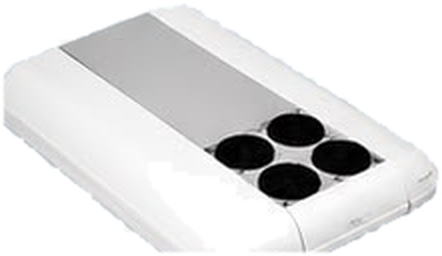
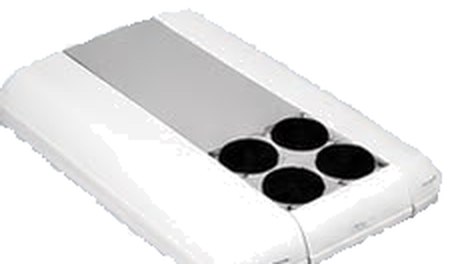
Imagenes en fondo blanco y datos de contacto reales

diff --git a/content/site.ts b/content/site.ts
@@ -14,7 +14,7 @@
 export const site = {
   // ---------------------------------------------------------------- Identidad
   nombre: "Thermobus",
-  nombreLegal: "Thermobus S.A.S.", // <<< COMPLETAR razón social real
+  nombreLegal: "Thermo Bus S.A.S.",
   tagline: "Representantes de ARCO Climatização en Colombia",
   descripcion:
     "Aire acondicionado para autobuses urbanos, interurbanos, articulados, eléctricos y microbuses. Representación oficial en Colombia de ARCO Climatização (Brasil).",
@@ -27,12 +27,14 @@ export const site = {
 
   // ----------------------------------------------------------------- Contacto
   contacto: {
-    ciudad: "Bogotá, Colombia", // <<< COMPLETAR
-    direccion: "", // <<< COMPLETAR (opcional; si queda vacío no se muestra)
-    telefono: "+57 000 000 0000", // <<< COMPLETAR
+    ciudad: "Bogotá, Colombia",
+    direccion: "", // opcional: dirección de la oficina. Vacío = no se muestra.
+    telefono: "+57 310 702 5510",
     // Solo dígitos con indicativo país, sin + ni espacios. Para el link de WhatsApp.
-    whatsapp: "573000000000", // <<< COMPLETAR
-    email: "comercial@thermobus.com.co", // <<< COMPLETAR
+    whatsapp: "573107025510",
+    // <<< COMPLETAR: correo comercial. Mientras esté vacío no se muestra en
+    // ninguna parte del sitio y el formulario envía solo por WhatsApp.
+    email: "",
     horario: "Lunes a viernes, 8:00 a.m. – 5:00 p.m.",
   },
 

diff --git a/components/FormularioContacto.tsx b/components/FormularioContacto.tsx
@@ -64,7 +64,7 @@ export default function FormularioContacto() {
     e.preventDefault();
     const cuerpo = componerMensaje();
 
-    if (via === "whatsapp") {
+    if (via === "whatsapp" || !site.contacto.email) {
       window.open(
         `https://wa.me/${site.contacto.whatsapp}?text=${encodeURIComponent(cuerpo)}`,
         "_blank",
@@ -195,8 +195,8 @@ export default function FormularioContacto() {
         />
       </div>
 
-      {/* Selector de canal */}
-      <fieldset>
+      {/* Selector de canal — el correo solo aparece si hay uno configurado */}
+      <fieldset hidden={!site.contacto.email}>
         <legend className={labelCls}>Enviar por</legend>
         <div className="mt-2 flex gap-2">
           {(["whatsapp", "email"] as const).map((opcion) => (
@@ -225,8 +225,9 @@ export default function FormularioContacto() {
       </button>
 
       <p className="text-xs text-slate-500">
-        Al enviar se abrirá {via === "whatsapp" ? "WhatsApp" : "su cliente de correo"} con
-        la solicitud ya redactada. Respondemos dentro del siguiente día hábil.
+        Al enviar se abrirá{" "}
+        {via === "whatsapp" || !site.contacto.email ? "WhatsApp" : "su cliente de correo"}{" "}
+        con la solicitud ya redactada. Respondemos dentro del siguiente día hábil.
       </p>
     </form>
   );

diff --git a/app/productos/[slug]/page.tsx b/app/productos/[slug]/page.tsx
@@ -105,7 +105,7 @@ export default async function ProductoPage({ params }: Props) {
                 </div>
               </div>
 
-              <div className="relative aspect-4/3 overflow-hidden rounded-xl bg-gradient-to-br from-white to-hielo-300/40">
+              <div className="relative aspect-4/3 overflow-hidden rounded-xl bg-white">
                 <Image
                   src={`/productos/${producto.slug}.png`}
                   alt={`Aire acondicionado ARCO ${producto.modelo}`}
@@ -204,7 +204,7 @@ export default async function ProductoPage({ params }: Props) {
                     href={`/productos/${p.slug}`}
                     className="group flex items-center gap-4 rounded-xl border border-slate-200 bg-white p-4 transition-all hover:-translate-y-0.5 hover:border-marca-300 hover:shadow-md"
                   >
-                    <div className="relative h-16 w-24 shrink-0 overflow-hidden rounded-lg bg-gradient-to-br from-marca-50 to-hielo-300/25">
+                    <div className="relative h-16 w-24 shrink-0 overflow-hidden rounded-lg border border-slate-100 bg-white">
                       <Image
                         src={`/productos/${p.slug}.png`}
                         alt=""

diff --git a/components/Footer.tsx b/components/Footer.tsx
@@ -46,14 +46,16 @@ export default function Footer() {
                   {site.contacto.telefono}
                 </a>
               </li>
-              <li>
-                <a
-                  href={`mailto:${site.contacto.email}`}
-                  className="break-all transition-colors hover:text-white"
-                >
-                  {site.contacto.email}
-                </a>
-              </li>
+              {site.contacto.email && (
+                <li>
+                  <a
+                    href={`mailto:${site.contacto.email}`}
+                    className="break-all transition-colors hover:text-white"
+                  >
+                    {site.contacto.email}
+                  </a>
+                </li>
+              )}
             </ul>
 
             {redes.length > 0 && (

diff --git a/components/ProductCard.tsx b/components/ProductCard.tsx
@@ -8,7 +8,7 @@ export default function ProductCard({ producto }: { producto: Producto }) {
       href={`/productos/${producto.slug}`}
       className="group flex flex-col overflow-hidden rounded-xl border border-slate-200 bg-white transition-all hover:-translate-y-0.5 hover:border-marca-300 hover:shadow-lg"
     >
-      <div className="relative aspect-16/9 overflow-hidden bg-gradient-to-br from-marca-50 to-hielo-300/25">
+      <div className="relative aspect-16/9 overflow-hidden border-b border-slate-100 bg-white">
         <Image
           src={`/productos/${producto.slug}.png`}
           alt={`Aire acondicionado ARCO ${producto.modelo}`}

diff --git a/components/Header.tsx b/components/Header.tsx
@@ -23,12 +23,14 @@ export default function Header() {
             >
               {site.contacto.telefono}
             </a>
-            <a
-              href={`mailto:${site.contacto.email}`}
-              className="transition-colors hover:text-white"
-            >
-              {site.contacto.email}
-            </a>
+            {site.contacto.email && (
+              <a
+                href={`mailto:${site.contacto.email}`}
+                className="transition-colors hover:text-white"
+              >
+                {site.contacto.email}
+              </a>
+            )}
           </div>
         </div>
       </div>

diff --git a/app/page.tsx b/app/page.tsx
@@ -99,7 +99,7 @@ export default function Home() {
                 href={`/productos#${linea.id}`}
                 className="group flex flex-col overflow-hidden rounded-xl border border-slate-200 bg-white transition-all hover:-translate-y-0.5 hover:border-marca-300 hover:shadow-lg"
               >
-                <div className="relative aspect-16/9 bg-gradient-to-br from-marca-50 to-hielo-300/25">
+                <div className="relative aspect-16/9 border-b border-slate-100 bg-white">
                   <Image
                     src={`/productos/${items[0].slug}.png`}
                     alt=""

diff --git a/app/contacto/page.tsx b/app/contacto/page.tsx
@@ -21,11 +21,15 @@ export default function Contacto() {
       valor: site.contacto.telefono,
       href: `tel:${site.contacto.telefono.replace(/\s/g, "")}`,
     },
-    {
-      etiqueta: "Correo",
-      valor: site.contacto.email,
-      href: `mailto:${site.contacto.email}`,
-    },
+    ...(site.contacto.email
+      ? [
+          {
+            etiqueta: "Correo",
+            valor: site.contacto.email,
+            href: `mailto:${site.contacto.email}`,
+          },
+        ]
+      : []),
   ];
 
   return (

diff --git a/components/CtaFinal.tsx b/components/CtaFinal.tsx
@@ -30,7 +30,9 @@ export default function CtaFinal({
           </div>
         </div>
         <p className="mt-8 border-t border-white/10 pt-6 text-sm text-marca-300">
-          {site.contacto.ciudad} · {site.contacto.telefono} · {site.contacto.email}
+          {[site.contacto.ciudad, site.contacto.telefono, site.contacto.email]
+            .filter(Boolean)
+            .join(" · ")}
         </p>
       </div>
     </section>

diff --git a/app/layout.tsx b/app/layout.tsx
@@ -43,7 +43,7 @@ const jsonLd = {
   legalName: site.nombreLegal,
   description: site.descripcion,
   url: site.url,
-  email: site.contacto.email,
+  ...(site.contacto.email ? { email: site.contacto.email } : {}),
   telephone: site.contacto.telefono,
   address: {
     "@type": "PostalAddress",
